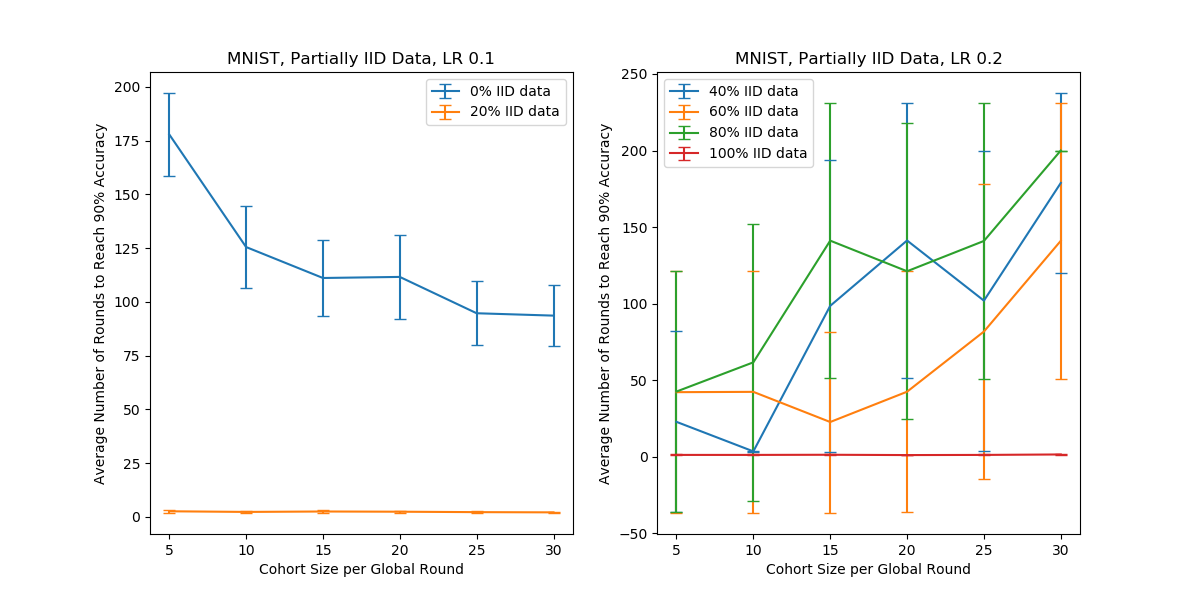
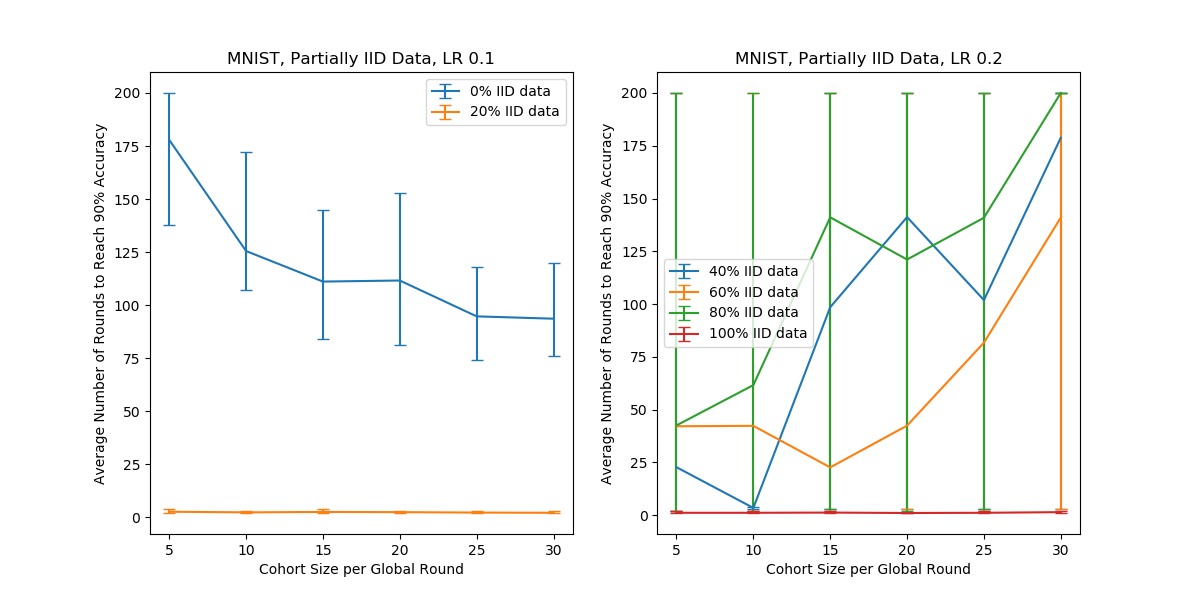
code for only 8 reps

diff --git a/results/5842441-cohort-size-IIDness-10trials-s1/graph99bars.py b/results/5842441-cohort-size-IIDness-10trials-s1/graph99bars.py
@@ -19,6 +19,8 @@ plt.subplot(121)
 for i in x1: 
 	rounds = []
 	rounds_std = []
+	rounds_min = []
+	rounds_max = []
 
 	# get IIDness
 	filename = 'results/' + batch_name + '/r0/' + str(batch) + '.' + str(i) + '.config.csv'
@@ -46,10 +48,13 @@ for i in x1:
 		# get average and stdev num rounds for this cohort size in this IIDness
 		rounds.append(sum(rounds_all_trials) / len(rounds_all_trials))
 		rounds_std.append(stat.pstdev(rounds_all_trials))
+		rounds_min.append(rounds[-1] - min(rounds_all_trials))
+		rounds_max.append(max(rounds_all_trials) - rounds[-1])
+		print(cohort_size[j], rounds_all_trials)
 
 	# add average rounds vs cohort size to plot
-	plt.errorbar(cohort_size, rounds, yerr=rounds_std, label=str(iidness) + '% IID data', capsize=4)
-	# plt.plot(cohort_size, rounds, label=str(iidness) + '% IID data')
+	# plt.errorbar(cohort_size, rounds, yerr=rounds_std, label=str(iidness) + '% IID data', capsize=4)
+	plt.errorbar(cohort_size, rounds, yerr=[rounds_min, rounds_max], label=str(iidness) + '% IID data', capsize=4)
 
 # finish plot
 plt.xticks(np.arange(5, 31, step=5))  # Set label locations.
@@ -64,6 +69,8 @@ plt.subplot(122)
 for i in x2: 
 	rounds = []
 	rounds_std = []
+	rounds_min = []
+	rounds_max = []
 
 	# get IIDness
 	filename = 'results/' + batch_name + '/r0/' + str(batch) + '.' + str(i) + '.config.csv'
@@ -91,10 +98,13 @@ for i in x2:
 		# get average and stdev num rounds for this cohort size in this IIDness
 		rounds.append(sum(rounds_all_trials) / len(rounds_all_trials))
 		rounds_std.append(stat.pstdev(rounds_all_trials))
+		rounds_min.append(rounds[-1] - min(rounds_all_trials))
+		rounds_max.append(max(rounds_all_trials) - rounds[-1])
+		print(cohort_size[j], rounds_all_trials)
 
 	# add average rounds vs cohort size to plot
-	plt.errorbar(cohort_size, rounds, yerr=rounds_std, label=str(iidness) + '% IID data', capsize=4)
-	# plt.plot(cohort_size, rounds, label=str(iidness) + '% IID data')
+	# plt.errorbar(cohort_size, rounds, yerr=rounds_std, label=str(iidness) + '% IID data', capsize=4)
+	plt.errorbar(cohort_size, rounds, yerr=[rounds_min, rounds_max], label=str(iidness) + '% IID data', capsize=4)
 
 # finish plot
 plt.xticks(np.arange(5, 31, step=5))  # Set label locations.

diff --git a/results/5842441-cohort-size-IIDness-10trials-s1/graph90bars.py b/results/5842441-cohort-size-IIDness-10trials-s1/graph90bars.py
@@ -19,6 +19,8 @@ plt.subplot(121)
 for i in x1: 
 	rounds = []
 	rounds_std = []
+	rounds_min = []
+	rounds_max = []
 
 	# get IIDness
 	filename = 'results/' + batch_name + '/r0/' + str(batch) + '.' + str(i) + '.config.csv'
@@ -50,9 +52,13 @@ for i in x1:
 		# get average and stdev num rounds for this cohort size in this IIDness
 		rounds.append(sum(rounds_all_trials) / len(rounds_all_trials))
 		rounds_std.append(stat.pstdev(rounds_all_trials))
+		rounds_min.append(rounds[-1] - min(rounds_all_trials))
+		rounds_max.append(max(rounds_all_trials) - rounds[-1])
+		print(cohort_size[j], rounds_all_trials)
 
 	# add average rounds vs cohort size to plot
-	plt.errorbar(cohort_size, rounds, yerr=rounds_std, label=str(iidness) + '% IID data', capsize=4)
+	# plt.errorbar(cohort_size, rounds, yerr=rounds_std, label=str(iidness) + '% IID data', capsize=4)
+	plt.errorbar(cohort_size, rounds, yerr=[rounds_min, rounds_max], label=str(iidness) + '% IID data', capsize=4)
 
 # finish plot
 plt.xticks(np.arange(5, 31, step=5))  # Set label locations.
@@ -67,6 +73,8 @@ plt.subplot(122)
 for i in x2: 
 	rounds = []
 	rounds_std = []
+	rounds_min = []
+	rounds_max = []
 
 	# get IIDness
 	filename = 'results/' + batch_name + '/r0/' + str(batch) + '.' + str(i) + '.config.csv'
@@ -98,9 +106,13 @@ for i in x2:
 		# get average and stdev num rounds for this cohort size in this IIDness
 		rounds.append(sum(rounds_all_trials) / len(rounds_all_trials))
 		rounds_std.append(stat.pstdev(rounds_all_trials))
+		rounds_min.append(rounds[-1] - min(rounds_all_trials))
+		rounds_max.append(max(rounds_all_trials) - rounds[-1])
+		print(cohort_size[j], rounds_all_trials)
 
 	# add average rounds vs cohort size to plot
-	plt.errorbar(cohort_size, rounds, yerr=rounds_std, label=str(iidness) + '% IID data', capsize=4)
+	# plt.errorbar(cohort_size, rounds, yerr=rounds_std, label=str(iidness) + '% IID data', capsize=4)
+	plt.errorbar(cohort_size, rounds, yerr=[rounds_min, rounds_max], label=str(iidness) + '% IID data', capsize=4)
 
 # finish plot
 plt.xticks(np.arange(5, 31, step=5))  # Set label locations.

diff --git a/partitioner.py b/partitioner.py
@@ -19,7 +19,7 @@ class Partitioner:
 	# call member functions in order, partitioning data before build_model()
 
 	def __init__(self):
-		self.ROUND_LIMIT = 200
+		self.ROUND_LIMIT = 250
 		self.COHORT_SIZE = 1
 		self.MAX_FANOUT = 1
 		self.NUM_EPOCHS = 1
@@ -97,13 +97,13 @@ class Partitioner:
 
 			# construct value array
 			# learning rate chosen/iterates first, batch size second, ...
-			shuffle_buffer = [100, 200, 300, 400, 500, 600, 700, 800, 900, 1000]
+			shuffle_buffer = [100, 200, 300, 400, 500, 600, 700, 800]
 			percent_data_iid = [0, 20, 40, 60, 80, 100]  # schema 1
 			percent_clients_iid = [50]  # schema 2
-			cohort_size = [5, 10, 15, 20, 25, 30] 
+			cohort_size = [2, 5, 10, 15, 20, 25, 30] 
 			num_epochs = [10]  # leave at 10
 			batch_size = [10]
-			learning_rate = [0.2]
+			learning_rate = [0.1]
 
 			# convert test number to array indices and set constants to array values
 			self.SHUFFLE_BUFFER = shuffle_buffer[n // (len(percent_data_iid) * len(percent_clients_iid) * len(cohort_size) * len(num_epochs) * len(batch_size) * len(learning_rate))]
@@ -124,8 +124,8 @@ class Partitioner:
 			# self.LR = (float(self.PERCENT_DATA_IID) / 800) + 0.075
 
 			# set learning rate based on percent data IID
-			if self.PERCENT_DATA_IID < 30:
-				self.LR = 0.1
+			# if self.PERCENT_DATA_IID < 30:
+			# 	self.LR = 0.1
 
 	# output configuation data to csv file
 	def make_config_csv(self, test, batch):
